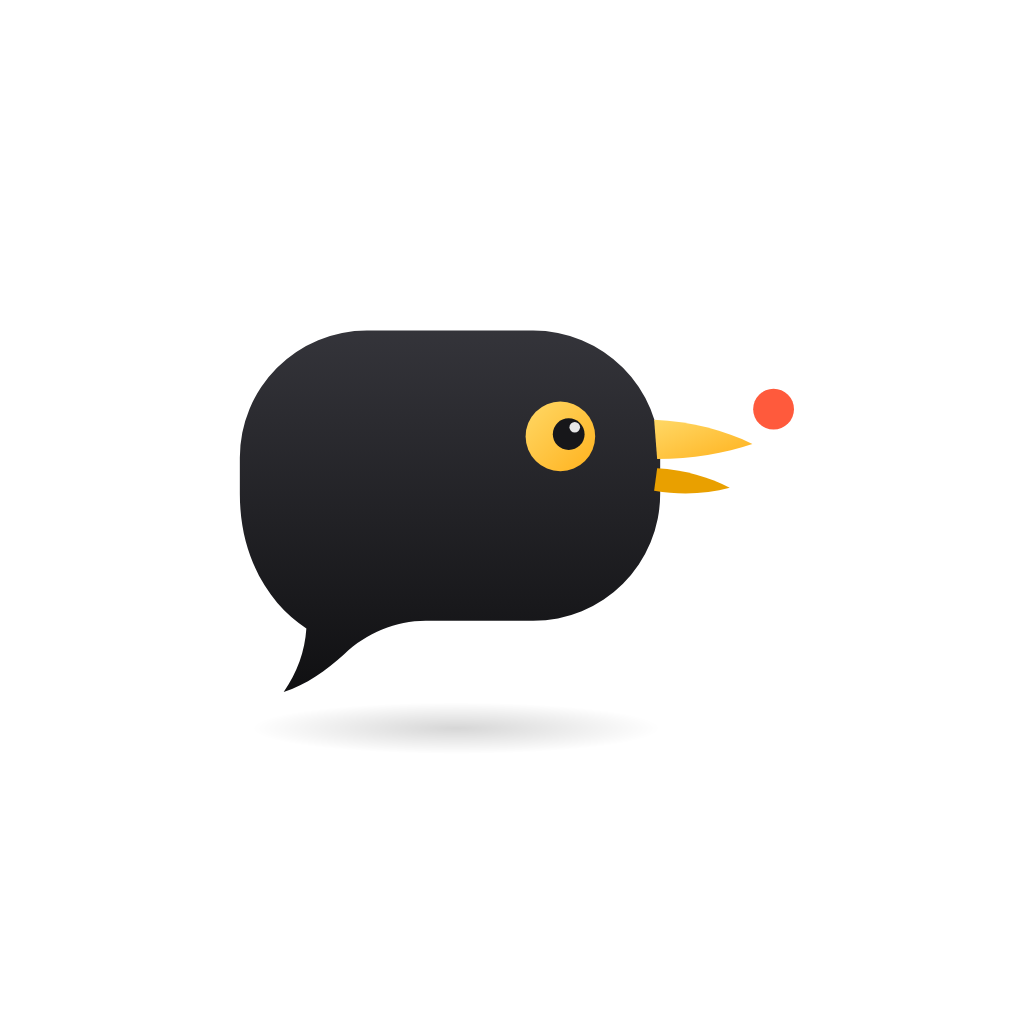
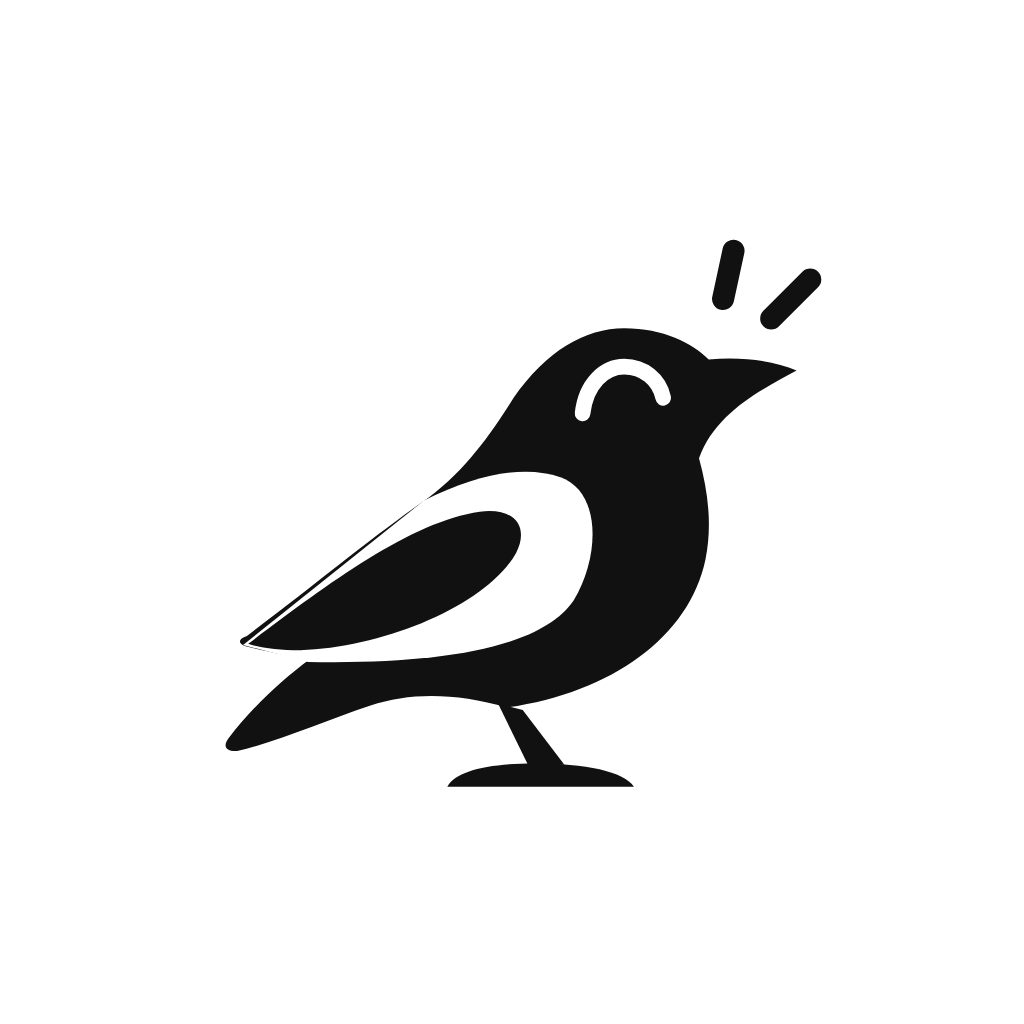
New brand mark: black-and-white walking myna
Replaces the bubble-bird everywhere: app icon (white background, black
bird), Android adaptive foreground/background/themed icon, notification
icon, light and dark splash (inverted), favicon, home-header mark and the
login lockup. One vector source in tools/brand/build-icons.cjs, which also
writes the paths the app's <Logo> draws (src/components/mark-paths.json).

Claude-Session: https://claude.ai/code/session_0164Vqi1GsHFibGgndUoynyF

Changed region(s): [[0.2188, 0.2188, 0.8125, 0.7812]]

diff --git a/apps/mobile/src/components/Logo.tsx b/apps/mobile/src/components/Logo.tsx
@@ -1,46 +1,46 @@
 import { Platform } from 'react-native';
-import Svg, { Circle, G, Path, Text as SvgText, TSpan } from 'react-native-svg';
+import Svg, { G, Path, Text as SvgText, TSpan } from 'react-native-svg';
 import { useSettings } from '../lib/settings';
 import { brand } from '../lib/theme';
+import P from './mark-paths.json';
 
-/** Same bubble-bird as the app icon (tools/brand/build-icons.cjs), in 1024-unit space. */
-const BODY = `M392 300 H612 A168 168 0 0 1 780 468 V516 A168 168 0 0 1 612 684 H470
-  C430 684 392 700 362 728 C338 750 312 768 282 778 C300 752 310 724 312 694
-  C266 664 224 604 224 516 V468 A168 168 0 0 1 392 300 Z`;
+/** The walking-myna mark from the app icon (tools/brand/build-icons.cjs), in its 1254-unit artwork space. */
+function Bird({ ink, paper }: { ink: string; paper: string }) {
+  return (
+    <>
+      <Path d={P.body} fill={ink} />
+      <Path d={P.crescent} fill={paper} />
+      <Path d={P.wing} fill={ink} />
+      <Path d={P.leg} fill={ink} />
+      <Path d={P.foot} fill={ink} />
+      <Path d={P.eye} fill="none" stroke={paper} strokeWidth={24} strokeLinecap="round" />
+      <Path d={P.chirp} fill="none" stroke={ink} strokeWidth={34} strokeLinecap="round" />
+    </>
+  );
+}
 
 /**
- * Myna logo. `mark` = the bubble-bird alone (home header); `full` = bird + "Myna" wordmark
- * with a tomato-red "a" (login, splash-like places). In dark mode the bird and wordmark invert
- * to light; beak/eye stay yellow, the "a" and dot stay red.
+ * Myna logo. `mark` = the bird alone (home header); `full` = bird + "Myna" wordmark with a tomato-red
+ * "a" (login). Black on light backgrounds; in dark mode the bird and wordmark invert to light.
  */
 export function Logo({ width = 86, variant = 'full' }: { width?: number; variant?: 'full' | 'mark' }) {
   const { colors } = useSettings();
   const ink = colors.ink;
-  const font = Platform.select({ ios: 'Helvetica Neue', android: 'sans-serif', default: 'system-ui, -apple-system, Segoe UI, Roboto, sans-serif' });
+  const paper = colors.bg; // negative space (wing crescent, eye) shows the page behind the logo
   if (variant === 'mark') {
-    // Bird bounding box in icon space ≈ x 224–960, y 300–778.
     return (
-      <Svg width={width} height={(width * 490) / 740} viewBox="222 296 740 490" accessibilityRole="image" accessibilityLabel="Myna">
-        <Path d={BODY} fill={ink} />
-        <Path d="M772 418 C820 420 866 432 902 450 C866 462 822 470 776 470 Z" fill={brand.yellow} />
-        <Path d="M776 482 C812 484 846 494 872 508 C842 516 808 518 772 512 Z" fill={brand.yellowDeep} />
-        <Circle cx={648} cy={440} r={48} fill={brand.yellow} />
-        <Circle cx={659} cy={437} r={22} fill="#17171A" />
-        <Circle cx={930} cy={404} r={30} fill={brand.red} />
+      <Svg width={width} height={(width * 860) / 930} viewBox="175 200 930 860" accessibilityRole="image" accessibilityLabel="Myna">
+        <Bird ink={ink} paper={paper} />
       </Svg>
     );
   }
+  const font = Platform.select({ ios: 'Helvetica Neue', android: 'sans-serif', default: 'system-ui, -apple-system, Segoe UI, Roboto, sans-serif' });
   return (
     <Svg width={width} height={(width * 44) / 142} viewBox="0 0 142 44" accessibilityRole="image" accessibilityLabel="Myna">
-      <G transform="translate(0 3) scale(0.072) translate(-224 -300)">
-        <Path d={BODY} fill={ink} />
-        <Path d="M772 418 C820 420 866 432 902 450 C866 462 822 470 776 470 Z" fill={brand.yellow} />
-        <Path d="M776 482 C812 484 846 494 872 508 C842 516 808 518 772 512 Z" fill={brand.yellowDeep} />
-        <Circle cx={648} cy={440} r={48} fill={brand.yellow} />
-        <Circle cx={659} cy={437} r={22} fill="#17171A" />
-        <Circle cx={930} cy={404} r={30} fill={brand.red} />
+      <G transform="translate(0 1) scale(0.0465) translate(-175 -200)">
+        <Bird ink={ink} paper={paper} />
       </G>
-      <SvgText x={64} y={32} fontSize={29} fontWeight="900" letterSpacing={-0.8} fill={ink} fontFamily={font}>
+      <SvgText x={50} y={33} fontSize={29} fontWeight="900" letterSpacing={-0.8} fill={ink} fontFamily={font}>
         Myn<TSpan fill={brand.red}>a</TSpan>
       </SvgText>
     </Svg>

diff --git a/apps/mobile/src/components/headers.tsx b/apps/mobile/src/components/headers.tsx
@@ -48,7 +48,7 @@ export function HomeTopBar({ query, onQuery }: { query: string; onQuery: (q: str
       <RoundButton label={t('open_menu')} onPress={open}>
         <T style={{ fontSize: 17 }}>☰</T>
       </RoundButton>
-      <Logo variant="mark" width={46} />
+      <Logo variant="mark" width={40} />
       <View style={[s.search, { backgroundColor: colors.card, borderColor: colors.line }]}>
         <Text style={{ fontSize: 13 }}>🔍</Text>
         <TextInput

diff --git a/docs/myna-handoff.md b/docs/myna-handoff.md
@@ -21,7 +21,7 @@
 | 项目 | 定版 |
 |---|---|
 | 品牌名 | Myna（注意商标风险，见 §13） |
-| Logo | （v0.8.1 定版）**气泡八哥**：八哥的身体就是一个对话气泡（气泡尾即鸟尾），黄喙张开、黄眼圈、喙前一个番茄红"声音"圆点。App 图标为米白暖色渐变底 + 柔和光影版。完整字标 = 气泡八哥 + "Myna"（末字 **a** 番茄红），用于登录页；首页顶栏左上角只放八哥图形。深色模式下鸟身与字标反转为浅色，喙/眼保持黄、a 与圆点保持红。源文件与全套尺寸生成脚本：`tools/brand/` |
+| Logo | （2026-11-12 定版）**行走的八哥**：黑白剪影风格，侧身行走、张嘴鸣叫，翅膀由一道留白弧线勾出，笑眯眯的弯眼睛（留白弧线），头顶两道"叫声"短线。App 图标为白底黑鸟；首页顶栏左上角只放八哥；登录页为八哥 + "Myna" 字标（末字 **a** 番茄红）。深色模式下黑白反转。源文件与全套尺寸生成脚本：`tools/brand/build-icons.cjs` |
 | 主色 | `#FF5A3C`（番茄红） |
 | 点缀色 | `#FFC93C`（黄，八哥喙/眼圈） |
 | 浅色底 | `#F6F5F2` |
